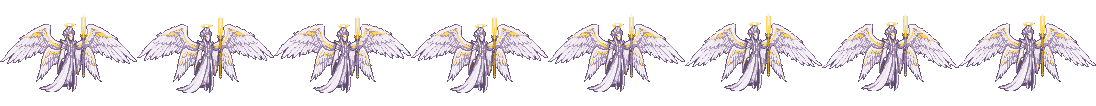
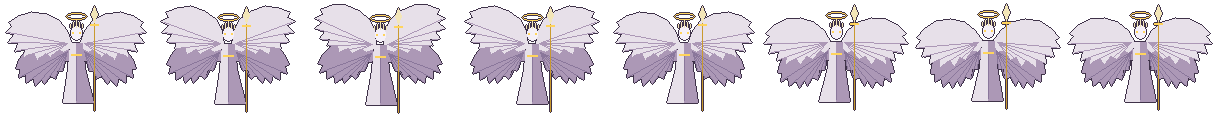
Boss : redessiné en pixel art simple (aplats, palette du HUD et des lanternes)

diff --git a/games/2026/deicide/js/boss.js b/games/2026/deicide/js/boss.js
@@ -1,11 +1,11 @@
 // boss.js : le Dieu de la Lumière, le boss final, dans l'arène en haut du niveau 1
-// Son dessin est une feuille de 8 images de 137 x 106 px (assets/images/boss/boss_idle.png) : il plane, ses ailes battent.
+// Son dessin est une feuille de 8 images de 152 x 116 px (assets/images/boss/boss_idle.png) : il plane, ses ailes battent.
 // Il apparaît quand arene.js ferme l'arène (voir faireApparaitreBoss) et flotte en haut de la salle.
 // Pour l'instant : apparition, animation et flottement. Les attaques, les PV et la mort viennent après.
 
-const LARGEUR_IMAGE = 137; // une image de la feuille
-const HAUTEUR_IMAGE = 106;
-const ECHELLE = 4; // le sprite est agrandi x4 : 548 x 424 px à l'écran, avec de gros pixels francs comme le HUD (l'arène fait 1280 px de large)
+const LARGEUR_IMAGE = 152; // une image de la feuille
+const HAUTEUR_IMAGE = 116;
+const ECHELLE = 3; // le sprite est agrandi x3 : 456 x 348 px à l'écran, avec des pixels francs de 3 px comme le HUD (l'arène fait 1280 px de large)
 const NB_IMAGES = 8;
 
 export function chargerBoss(scene) { // à appeler dans chargerJeu (preload)
@@ -20,7 +20,7 @@ export function faireApparaitreBoss(scene, x, y) { // fait apparaître le boss e
     const boss = scene.physics.add.sprite(x, y, "boss_idle", 0); // un sprite avec un corps physique, pour les tirs du joueur plus tard
     boss.body.setAllowGravity(false); // il vole : la gravité ne l'affecte pas
     boss.body.setImmovable(true);
-    boss.body.setSize(30, 75).setOffset(53, 20); // la hitbox est le corps de l'ange, sans les ailes
+    boss.body.setSize(34, 90).setOffset(59, 22); // la hitbox est le corps de l'ange, sans les ailes
     boss.setScale(ECHELLE).setDepth(51).setAlpha(0); // au-dessus du voile d'ombre (50) : c'est lui la lumière
     boss.play("boss_idle");
     boss.pv = 30; // PV du boss (une trentaine de tirs)
@@ -33,7 +33,7 @@ export function faireApparaitreBoss(scene, x, y) { // fait apparaître le boss e
         boss.halo = halo;
         boss.once("destroy", () => halo.destroy());
     }
-    scene.tweens.add({ targets: [boss, boss.halo].filter(Boolean), alpha: { value: (cible) => (cible === boss ? 1 : 0.7) }, duration: 1500, onComplete: () => { boss.etat = "combat"; } }); // apparition en fondu
+    scene.tweens.add({ targets: [boss, boss.halo].filter(Boolean), alpha: { value: (cible) => (cible === boss ? 1 : 0.35) }, duration: 1500, onComplete: () => { boss.etat = "combat"; } }); // apparition en fondu
 
     scene.boss = boss;
     const suivre = (temps) => majBoss(scene, boss, temps);
